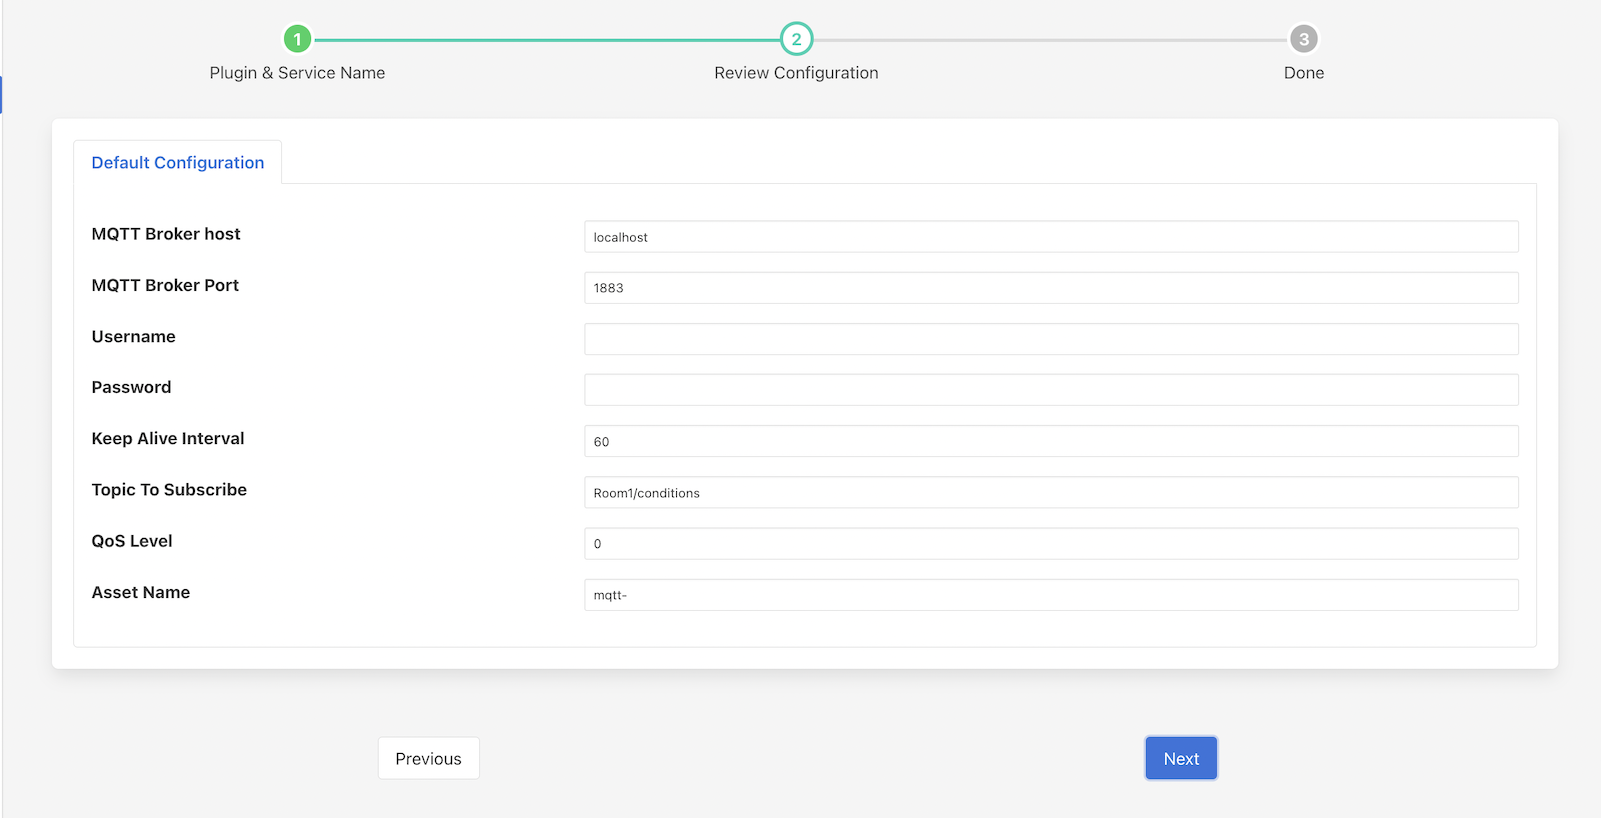
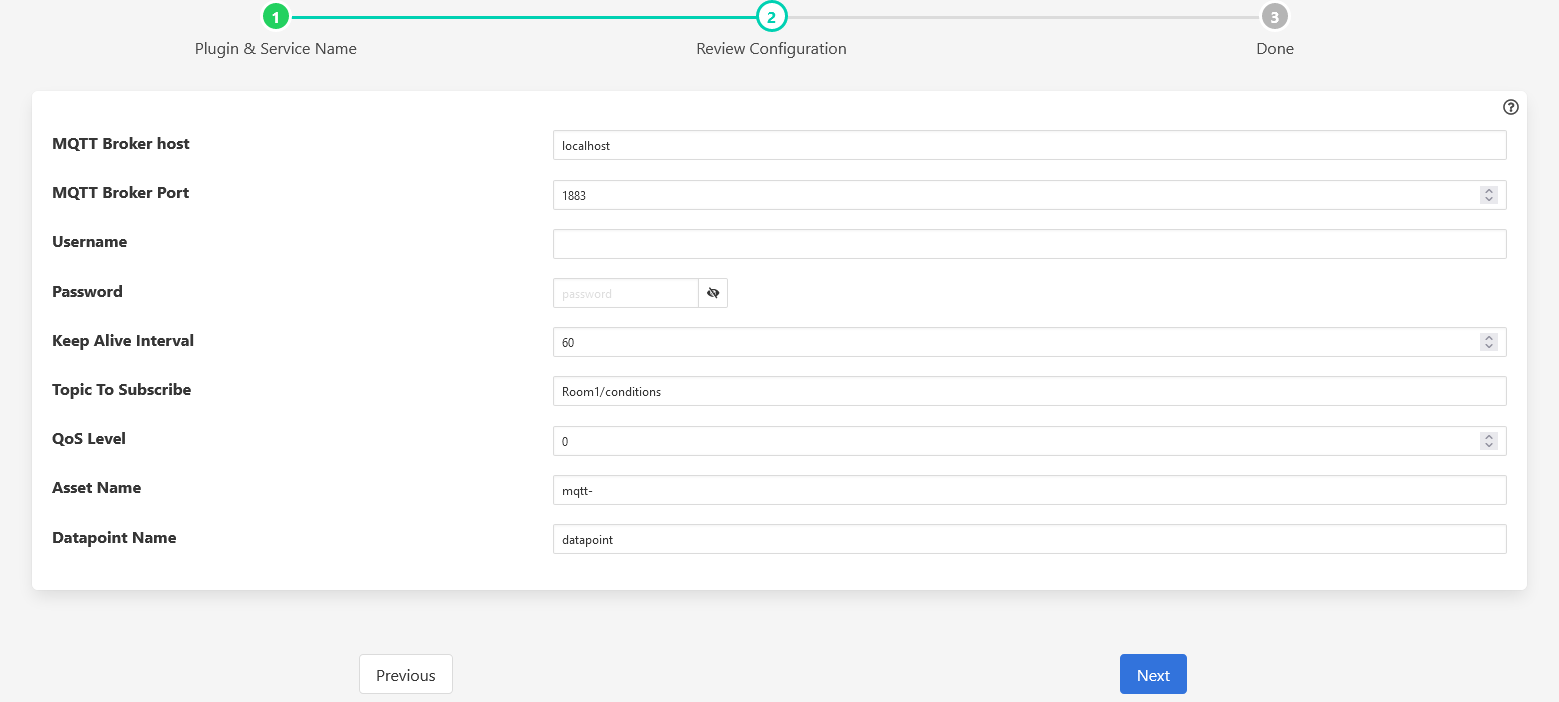
Oskar Gert: add string int and float support (#26)
* add function for converting string into correct data type

* change type to password to hide password in browser

* Feedback with patch

* bump to version 2.3

---------

diff --git a/python/fledge/plugins/south/mqtt-readings/mqtt-readings.py b/python/fledge/plugins/south/mqtt-readings/mqtt-readings.py
@@ -47,7 +47,6 @@ import asyncio
 import copy
 import json
 import logging
-import uuid
 
 import paho.mqtt.client as mqtt
 
@@ -57,12 +56,12 @@ from fledge.services.south import exceptions
 from fledge.services.south.ingest import Ingest
 import async_ingest
 
-__author__ = "Praveen Garg"
-__copyright__ = "Copyright (c) 2020 Dianomic Systems, Inc."
+__author__ = "Praveen Garg, Oskar Gert"
+__copyright__ = "Copyright (c) 2024 Dianomic Systems, Inc."
 __license__ = "Apache 2.0"
 __version__ = "${VERSION}"
 
-_LOGGER = logger.setup(__name__, level=logging.INFO)
+_LOGGER = logger.setup(__name__, level=logging.WARNING)
 
 c_callback = None
 c_ingest_ref = None
@@ -100,7 +99,7 @@ _DEFAULT_CONFIG = {
     },
     'password': {
         'description': 'Password for broker authentication',
-        'type': 'string',
+        'type': 'password',
         'default': '',
         'order': '4',
         'displayName': 'Password'
@@ -136,7 +135,16 @@ _DEFAULT_CONFIG = {
         'default': 'mqtt-',
         'order': '8',
         'displayName': 'Asset Name',
-        'mandatory': 'true'
+        'mandatory': 'true',
+        'group': 'Reading'
+    },
+    'reading_datapoint_name_for_primitive_value': {
+        'description': 'Datapoint name to be used in the reading object only for a primitive value, published to the topic',
+        'type': 'string',
+        'default': 'datapoint',
+        'order': '9',
+        'displayName': 'Datapoint Name',
+        'group': 'Reading'
     }
 }
 
@@ -242,7 +250,7 @@ def plugin_register_ingest(handle, callback, ingest_ref):
 class MqttSubscriberClient(object):
     """ mqtt listener class"""
 
-    __slots__ = ['mqtt_client', 'broker_host', 'broker_port', 'username', 'password', 'topic', 'qos', 'keep_alive_interval', 'asset', 'loop']
+    __slots__ = ['mqtt_client', 'broker_host', 'broker_port', 'username', 'password', 'topic', 'qos', 'keep_alive_interval', 'asset', 'reading_datapoint_name_for_primitive_value', 'loop']
 
     def __init__(self, config):
         self.mqtt_client = mqtt.Client()
@@ -253,7 +261,9 @@ class MqttSubscriberClient(object):
         self.topic = config['topic']['value']
         self.qos = int(config['qos']['value'])
         self.keep_alive_interval = int(config['keepAliveInterval']['value'])
+        
         self.asset = config['assetName']['value']
+        self.reading_datapoint_name_for_primitive_value = config['reading_datapoint_name_for_primitive_value']['value']
 
     def on_connect(self, client, userdata, flags, rc):
         """ The callback for when the client receives a CONNACK response from the server
@@ -301,10 +311,24 @@ class MqttSubscriberClient(object):
         self.mqtt_client.disconnect()
         self.mqtt_client.loop_stop()
 
+    def convert(self, msg):
+        constructors = [json.loads, int, float, str]
+        for constructor in constructors:
+            try:
+                # Only convert if type is string
+                converted_msg = constructor(msg) if type(msg) == str else msg
+                # Create dict if converted msg isn't already a dict
+                if not isinstance(converted_msg, dict):
+                    converted_msg = {self.reading_datapoint_name_for_primitive_value: converted_msg}
+            except (ValueError, TypeError) as error:
+                pass
+            else:
+               return converted_msg
+        _LOGGER.exception("Unable to convert payload '%s' to a suitable type", str(msg)) 
+        
     async def save(self, msg):
         """Store msg content to Fledge """
-        # TODO: string and other types?
-        payload_json = json.loads(msg.payload.decode('utf-8'))
+        payload_json = self.convert(msg.payload.decode('utf-8'))
         _LOGGER.debug("Ingesting %s on topic %s", payload_json, str(msg.topic)) 
         data = {
             'asset': self.asset,

diff --git a/mqtt-pub/__main__.py b/mqtt-pub/__main__.py
@@ -34,6 +34,10 @@ def on_disconnect(client, userdata, rc):
 
 # faking
 def prepare_data():
+    # return "100"
+    # return "90.9"
+    # return "STRING"
+    # return '{"abc": 1}'
     h = float("{0:.2f}".format(random.uniform(50, 100)))
     t = float("{0:.2f}".format(random.uniform(10, 40)))
     data = dict()

diff --git a/docs/index.rst b/docs/index.rst
@@ -41,6 +41,8 @@ To create a south service you, as with any other south plugin
 
     - **Asset Name**: Name of Asset.
 
+    - **Datapoint Name**: Datapoint name to be used in the reading object only for a primitive value, published to the topic
+
   - Click *Next*
 
   - Enable your service and click *Done*
@@ -50,13 +52,16 @@ Message Payload
 ---------------
 
 The content of the message payload published to the topic, to which the service is configured to subscribe, 
-should be parsable to a JSON object.
+should be parsable to a JSON object, Integer, Float or String.
 
-e.g. `'{"humidity": 93.29, "temp": 16.82}'`
+e.g. `'{"humidity": 93.29, "temp": 16.82}'`, `'100'`, `'90.9'`, `'STRING'`
 
 .. code-block:: console
 
   $ mosquitto_pub -h localhost -t "Room1/conditions" -m '{"humidity": 93.29, "temp": 16.82}'
+  $ mosquitto_pub -h localhost -t "Room1/conditions" -m '100'
+  $ mosquitto_pub -h localhost -t "Room1/conditions" -m '90.9'
+  $ mosquitto_pub -h localhost -t "Room1/conditions" -m 'STRING'
 
 The mosquitto_pub client utility comes with the mosquitto package, and a great tool for conducting quick tests and troubleshooting.
 https://mosquitto.org/man/mosquitto_pub-1.html
